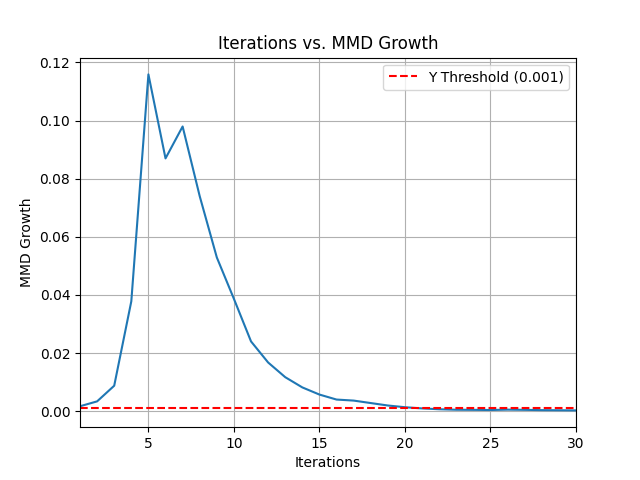
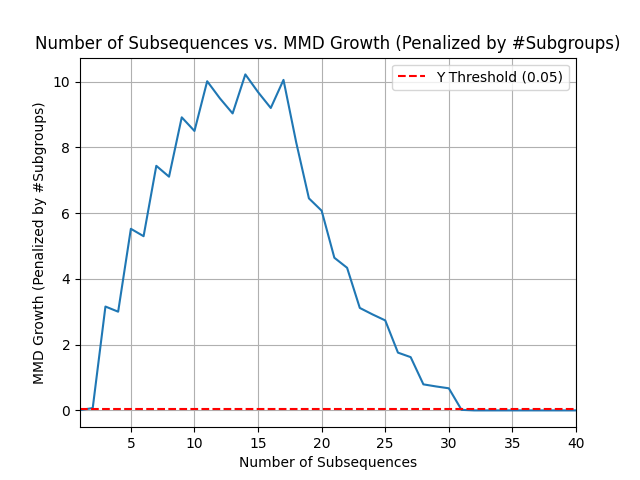
Segmentation update (Missing good visualization for phi_seq)

diff --git a/explainability/seqshap/segmentation.py b/explainability/seqshap/segmentation.py
@@ -1,7 +1,7 @@
 import os
 import numpy as np
 
-from .plots import plot_metric
+from .plots import plot_metric, plot_subsequences
 
 class SeqShapSegmentation:
     def __init__(self, f, seq_num, dataset_name):
@@ -10,7 +10,10 @@ class SeqShapSegmentation:
         self.dataset_name = dataset_name
         self.seq_num = seq_num
         self.save_file = f"config/{dataset_name}/SeqSHAP/Sequence_{seq_num}.npy"
-        self.threshold = 0.001 # TODO: Good threshold?
+        
+        self.m = 10 # Number of considered neighbors
+        self.min_window = 1
+        self.threshold = 0.05 # TODO: Good threshold?
 
     def __call__(self, X):
         ''' X shape: (#events, #feats)
@@ -24,24 +27,25 @@ class SeqShapSegmentation:
         return self.distribution_based_segmentation(initial_set)
 
 
-    def fdist(self, subsequences1, subsequences2, start_m, start_n):
+    def fdist(self, subsequences1, subsequences2, start_m, start_n, X):
         m = subsequences1.shape[0]
         n = subsequences2.shape[0]
 
         # Transform arrays into predictions using self.f
-        predictions1 = self.f(range(start_m, start_m + m))
-        predictions2 = self.f(range(start_n, start_n + n))
+        dist1 = np.mean(X[range(start_m, start_m + m)], axis=0)
+        dist2 = np.mean(X[range(start_n, start_n + n)], axis=0)
 
         # Calculate the MMD
-        mmd = np.abs(np.mean(predictions1) - np.mean(predictions2))
+        mmd = np.abs(np.mean(dist1) - np.mean(dist2))
 
         return mmd
 
-    def calculate_metric(self, subsequences, temp_split_points, m=1):
+    def calculate_metric(self, subsequences, temp_split_points, X, m=None):
+        m = self.m
         total_distance = 0
         for i in range(len(subsequences) - 1):
             for j in range(max(i - m, 0), min(i + m + 1, len(subsequences))):
-                distance = self.fdist(subsequences[i], subsequences[j], temp_split_points[i], temp_split_points[j])
+                distance = self.fdist(subsequences[i], subsequences[j], temp_split_points[i], temp_split_points[j], X)
                 sqrt_product = np.sqrt(len(subsequences[i]) * len(subsequences[j]))
                 total_distance += distance / sqrt_product
         return total_distance
@@ -76,8 +80,17 @@ class SeqShapSegmentation:
                         for j in range(1, len(temp_split_points))
                     ]
 
+                    skip = False
+                    for j in range(len(temp_subsequences)):
+                        if len(temp_subsequences[j]) < self.min_window:
+                            skip = True
+                            break
+                    
+                    if skip:
+                        continue
+
                     # Calculate metric for new subsequences, assuming m=1 (the considered neighbors)
-                    d = self.calculate_metric(temp_subsequences, temp_split_points)
+                    d = self.calculate_metric(temp_subsequences, temp_split_points, initial_set)
                     
                     if d > d_max:
                         d_max = d
@@ -88,15 +101,19 @@ class SeqShapSegmentation:
             split_points.add(p)
             subsequences = best_subsequences
 
-            print(f"Iteration: {len(subsequences)} / {self.k}, Max d: {d_max}, d diff: {d_max-best_dmax}")
+            metric = (d_max-best_dmax)*((self.k - len(subsequences))**10/(self.k**10))
 
-            d_diff_list.append(d_max-best_dmax)
+            print(f"Iteration: {len(subsequences)} / {self.k}, Max d: {d_max}, d diff: {d_max-best_dmax}, d diff/it: {metric}")
+
+            d_diff_list.append(metric)
             
 
             if d_max > best_dmax:
-                if d_max - best_dmax < self.threshold:
+                if metric < self.threshold and d_max > 1 / self.min_window and countdown == 10:
                     countdown -= 1
                     update_seqs = False
+                    print_split_points = set(split_points)
+                    print_split_points.remove(p)
                 elif countdown < 10:
                     countdown -= 1
                 if update_seqs:
@@ -107,8 +124,12 @@ class SeqShapSegmentation:
                 countdown -= 1
 
         # Plot iteration vs d_diff
-        plot_metric(d_diff_list, "MMD Growth", f"plots/{self.dataset_name}/SeqSHAP/Sequence_{self.seq_num}",
+        plot_metric(d_diff_list, "MMD Growth (Penalized by #Subgroups)", f"plots/{self.dataset_name}/SeqSHAP/Sequence_{self.seq_num}",
                     "mmd_growth.png", y_threshold=self.threshold)
+        
+        # Plot segmentation
+        plot_subsequences(initial_set, print_split_points, f"plots/{self.dataset_name}/SeqSHAP/Sequence_{self.seq_num}",
+                    "subsequences.png",)
 
         # Solve varying lengths
         max_size = initial_set.shape[0]
@@ -134,8 +155,8 @@ class SeqShapSegmentation:
             ret[i] = padded_seq
         
         # Save best_subs to file
-        if not os.path.exists(self.save_file):
-            os.makedirs(self.save_file[:self.save_file.rfind("/")], exist_ok=True)
+        if not os.path.exists(self.save_file[:self.save_file.rfind("/")]):
+            os.makedirs(self.save_file[:self.save_file.rfind("/")])
         np.save(self.save_file, ret)
 
         return ret

diff --git a/explainability/seqshap/plots.py b/explainability/seqshap/plots.py
@@ -1,13 +1,15 @@
 import os
+import numpy as np
 import matplotlib.pyplot as plt
+import matplotlib.colors as mcolors
 
 def plot_metric(values, y_label, save_dir, filename, y_threshold=None):
     iterations = range(1, len(values) + 1)  # Assuming iterations start from 
 
     plt.plot(iterations, values)
-    plt.xlabel('Iterations')
+    plt.xlabel('Number of Subsequences')
     plt.ylabel(y_label)
-    plt.title(f'Iterations vs. {y_label}')
+    plt.title(f'Number of Subsequences vs. {y_label}')
     plt.grid(True)
 
     if y_threshold is not None:
@@ -25,3 +27,81 @@ def plot_metric(values, y_label, save_dir, filename, y_threshold=None):
     plt.savefig(save_path)
     plt.close()
 
+
+def plot_subsequences(X, split_points, save_dir, filename):
+    num_subsequences = len(split_points) - 1 # Number of subsequences
+    
+    fig, ax = plt.subplots(figsize=(12, 6))
+    ax.set_title('Subsequences Visualization')
+    ax.set_xlabel('Events')
+    ax.set_ylabel('Feature Values')
+
+    colors = plt.cm.get_cmap('tab10', X.shape[1])  # Generate colors for each feature
+    
+    for i in range(X.shape[1]):
+        ax.plot(X[:, i], color=colors(i), label=f'Feature {i+1}')
+
+    # Add vertical lines for split points
+    for split_point in sorted(list(split_points))[1:-1]:
+        ax.axvline(x=split_point, color='gray', linestyle='--')
+
+    # Add legend
+    ax.legend()
+
+    # Add total number of subsequences to legend
+    ax.text(0.95, 0.95, f'Total Subsequences: {num_subsequences}', transform=ax.transAxes,
+            verticalalignment='top', horizontalalignment='right')
+
+    plt.tight_layout()
+
+    # Ensure the save directory exists
+    os.makedirs(save_dir, exist_ok=True)
+    
+    # Save the plot as an image file
+    save_path = os.path.join(save_dir, filename)
+    plt.savefig(save_path)
+    plt.close()
+
+
+def visualize_phi_seq(phi_seq, save_dir, filename):
+    os.makedirs(save_dir, exist_ok=True)
+
+    num_feats, num_subseqs, num_events = phi_seq.shape
+
+    # Iterate over each feature
+    for feat_idx in range(num_feats):
+        # Compute the mean across events for each subsequence
+        mean_values = np.mean(phi_seq[feat_idx], axis=1)
+
+        # Compute the deviation from the mean for each event
+        phi_seq_feat = phi_seq[feat_idx] - mean_values[:, None]
+
+        # Normalize phi_seq to range [0, 1] for visualization
+        min_val = np.min(phi_seq_feat)
+        max_val = np.max(phi_seq_feat)
+        norm_values = (phi_seq_feat - min_val) / (max_val - min_val)
+
+        # Define a diverging colormap
+        cmap = plt.cm.RdBu_r
+
+        # Create a custom colormap with a neutral color around 1/num_events
+        mid_color = mcolors.TwoSlopeNorm(vmin=np.min(norm_values), vcenter=np.mean(norm_values), vmax=np.max(norm_values))(norm_values)
+        adjusted_colormap = cmap(mid_color)
+
+        # Create figure and axes
+        fig, ax = plt.subplots(figsize=(10, 6))
+
+        # Plot each box
+        for subseq_idx in range(num_subseqs):
+            for event_idx in range(num_events):
+                ax.add_patch(plt.Rectangle((subseq_idx, event_idx), 1, 1, facecolor=adjusted_colormap[subseq_idx, event_idx]))
+
+        # Set labels and title
+        ax.set_xlabel('Subsequences')
+        ax.set_ylabel('Events')
+        ax.set_title(f'Visualization of Phi Sequence (Feature {feat_idx})')
+
+        # Save the plot
+        save_path = os.path.join(save_dir, f"{filename}_feat{feat_idx}.png")
+        plt.savefig(save_path)
+        plt.close()

diff --git a/explainability/seqshap/SeqShapKernel.py b/explainability/seqshap/SeqShapKernel.py
@@ -4,6 +4,7 @@ from .segmentation import SeqShapSegmentation
 from shap import KernelExplainer
 from shap.utils._legacy import convert_to_link, convert_to_model, convert_to_instance, match_instance_to_data, match_model_to_data
 from .utils import convert_to_data, compute_background
+from .plots import visualize_phi_seq
 from scipy.special import binom
 
 class SeqShapKernel(KernelExplainer):
@@ -23,7 +24,7 @@ class SeqShapKernel(KernelExplainer):
 
         self.background = background
         self.random_seed = random_seed
-        self.sequence_number = seq_num
+        self.seq_num = seq_num
         self.dataset_name = dataset_name
         self.k = 0
 
@@ -49,7 +50,7 @@ class SeqShapKernel(KernelExplainer):
         self.background = compute_background(X, self.background)
 
         # TODO: Maybe should use self.fnull instead of self.model_null (weights)
-        seg = SeqShapSegmentation(lambda x: self.model_null[0, x], self.sequence_number, self.dataset_name)
+        seg = SeqShapSegmentation(lambda x: self.model_null[0, x], self.seq_num, self.dataset_name)
 
         segmented_X = seg(X)
         self.k = segmented_X.shape[0]
@@ -59,6 +60,12 @@ class SeqShapKernel(KernelExplainer):
 
         # Subsequence explanations
         self.compute_subsequence_explanations(segmented_X)
+
+        # Plot phi_f, shape: num_feats
+
+        # Plot phi_seq, shape: num_feats x num_subseqs x num_events (of output)
+        visualize_phi_seq(self.phi_seq, f"plots/{self.dataset_name}/SeqSHAP/Sequence_{self.seq_num}", "phi_seq")
+
         
         print(f"Phi_f: {self.phi_f}")
         print(f"Phi_seq: {self.phi_seq}")
